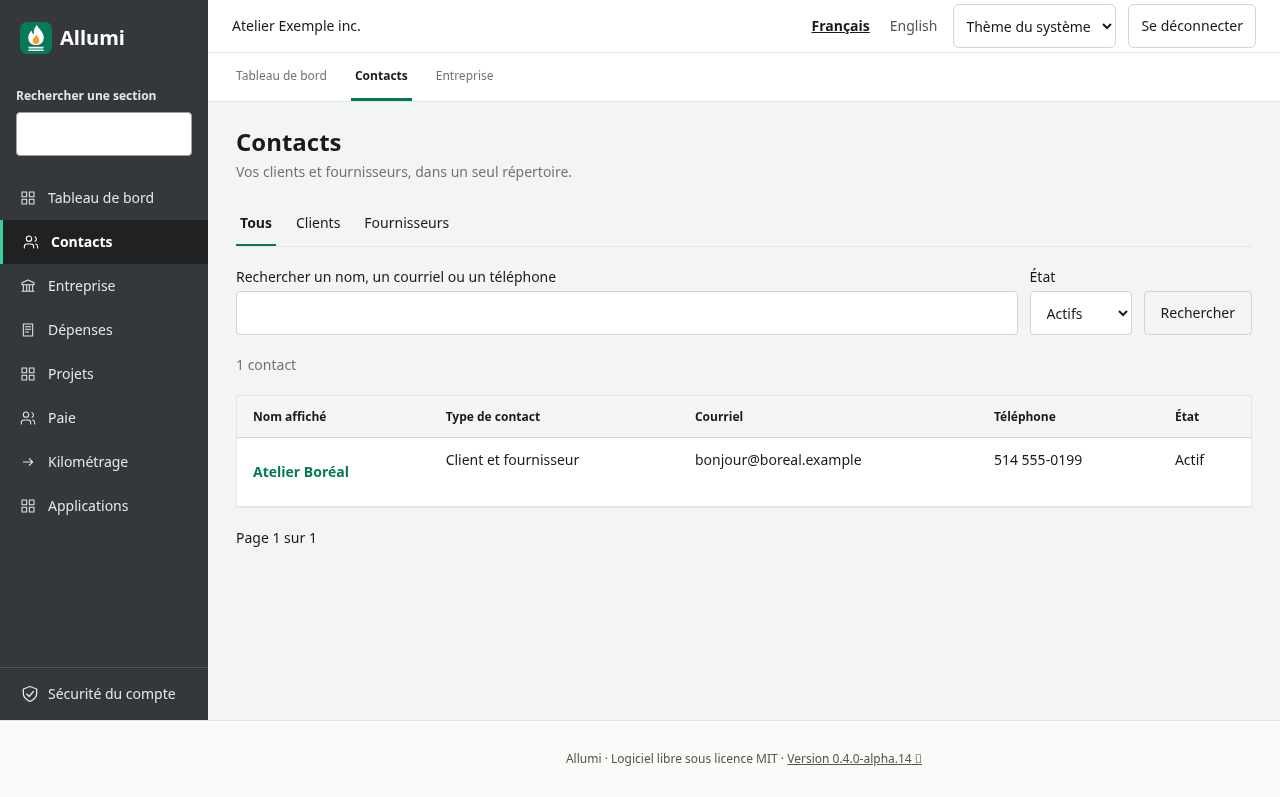
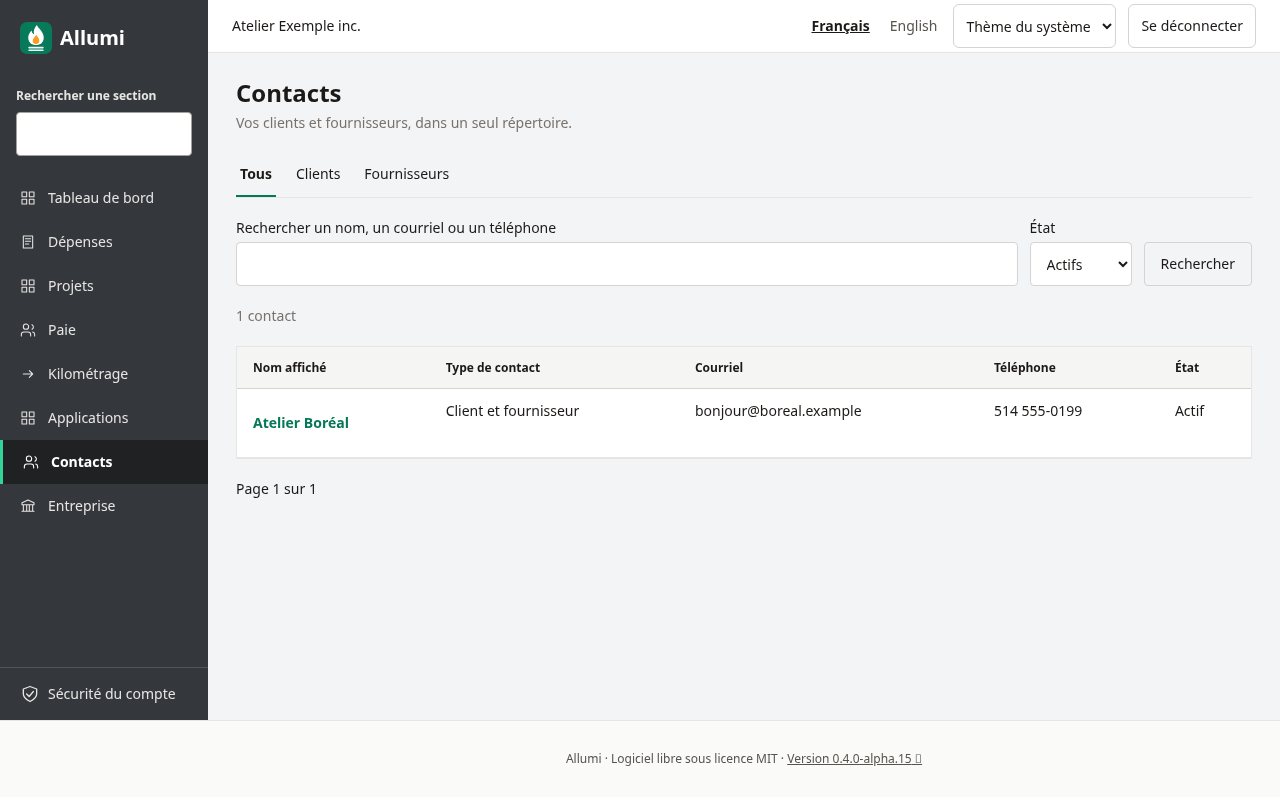
feat(navigation): separate activity sidebar from contextual tabs

diff --git a/src/app/c/[companyId]/nav.tsx b/src/app/c/[companyId]/nav.tsx
@@ -1,6 +1,7 @@
 "use client";
 
 import Link from "next/link";
+import { matchesNavigationPath } from "./navigation-groups";
 import { usePathname } from "next/navigation";
 import { useId, useRef, useState } from "react";
 import { useTranslations } from "next-intl";
@@ -9,14 +10,17 @@ import { Icon, type IconName } from "@/app/_components/icon";
 
 export type NavLink = { href: string; label: string; shortLabel?: string; icon: IconName };
 
-export function CompanyNav({ links, label, tabs = false }: { links: NavLink[]; label: string; tabs?: boolean }) {
+export type NavGroup = { href: string; links: NavLink[] };
+
+export function CompanyNav({ links, desktopLinks = links, groups = [], label, tabs = false }: { links: NavLink[]; desktopLinks?: NavLink[]; groups?: NavGroup[]; label: string; tabs?: boolean }) {
   const pathname = usePathname();
   const [open, setOpen] = useState(false);
   const [query, setQuery] = useState("");
   const menuId = useId();
   const toggle = useRef<HTMLButtonElement>(null);
   const t = useTranslations("nav");
-  const current = (link: NavLink) => link === links[0] ? pathname === link.href : pathname === link.href || pathname.startsWith(`${link.href}/`);
+  const activeGroup = groups.find(group => matchesNavigationPath(pathname, group.href) || group.links.some(link => matchesNavigationPath(pathname, link.href)));
+  const current = (link: NavLink) => link.href === activeGroup?.href || (link === links[0] ? pathname === link.href : matchesNavigationPath(pathname, link.href));
   const close = () => { setOpen(false); setQuery(""); toggle.current?.focus(); };
   const normalize = (value: string) => value.normalize("NFD").replace(/[\u0300-\u036f]/g, "").toLocaleLowerCase();
   const words = normalize(query).trim().split(/\s+/).filter(Boolean);
@@ -33,9 +37,12 @@ export function CompanyNav({ links, label, tabs = false }: { links: NavLink[]; l
     className={`flex min-h-11 min-w-0 items-center gap-3 ${FOCUS} ${mode === "mobile" ? "min-h-16 flex-col justify-center gap-1 px-1 py-2 text-center text-[11px]" : "px-5 py-3 text-sm"} ${current(link) ? mode === "desktop" ? "border-l-3 border-brand-500 bg-black/40 font-semibold text-white" : "bg-brand-50 font-semibold text-brand-800 dark:bg-brand-800 dark:text-white" : mode === "desktop" ? "text-stone-200 hover:bg-black/20" : "text-stone-700 hover:bg-stone-100 dark:text-stone-200 dark:hover:bg-stone-800"}`}>
     <Icon name={link.icon} className="h-4 w-4 shrink-0" /><span>{mode === "mobile" ? link.shortLabel ?? link.label : link.label}</span>
   </Link>;
-  if (tabs) return <nav aria-label={label} className="hidden gap-5 overflow-x-auto border-b border-stone-200 bg-white px-6 dark:border-stone-800 dark:bg-stone-900 lg:flex">{links.map((link) => <Link key={link.href} href={link.href} aria-current={current(link) ? "page" : undefined} className={`flex min-h-12 shrink-0 items-center border-b-3 px-1 text-xs ${FOCUS} ${current(link) ? "border-brand-700 font-semibold" : "border-transparent text-stone-500 dark:text-stone-400"}`}>{link.label}</Link>)}</nav>;
+  if (tabs) {
+    if (!activeGroup?.links.length) return null;
+    return <nav aria-label={label} className="hidden gap-5 overflow-x-auto border-b border-stone-200 bg-white px-6 dark:border-stone-800 dark:bg-stone-900 lg:flex">{activeGroup.links.map(link => <Link key={link.href} href={link.href} aria-current={matchesNavigationPath(pathname, link.href) ? "page" : undefined} className={`flex min-h-12 shrink-0 items-center border-b-3 px-1 text-sm ${FOCUS} ${matchesNavigationPath(pathname, link.href) ? "border-brand-700 font-semibold" : "border-transparent text-stone-500 dark:text-stone-400"}`}>{link.label}</Link>)}</nav>;
+  }
   return <nav aria-label={label} onKeyDown={(event) => { if (event.key === "Escape" && open) { event.preventDefault(); close(); } }} className="mobile-navigation fixed inset-x-0 bottom-0 z-30 border-t border-stone-200 bg-white dark:border-stone-800 dark:bg-stone-900 lg:static lg:min-h-0 lg:flex-1 lg:overflow-y-auto lg:border-0 lg:bg-transparent lg:dark:bg-transparent">
-    <div className="hidden lg:block">{search("desktop")}{results.map((link) => item(link, "desktop"))}</div>
+    <div className="hidden lg:block">{search("desktop")}{(words.length > 0 ? results : desktopLinks).map((link) => item(link, "desktop"))}</div>
     <div className="lg:hidden">
       {open && <div id={menuId} className="max-h-[65dvh] overflow-y-auto border-b border-stone-200 dark:border-stone-800"><div className="flex items-center justify-between px-5"><h2 className="font-semibold text-stone-900 dark:text-white">{t("menu")}</h2><button type="button" onClick={close} className={`min-h-11 px-3 text-sm text-stone-700 dark:text-stone-200 ${FOCUS}`}>{t("closeMenu")}</button></div>{search("panel")}{(words.length > 0 ? results : links.slice(3)).map((link) => item(link, "panel"))}</div>}
       <div className="grid grid-cols-4">{links.slice(0, 3).map((link) => item(link, "mobile"))}<button ref={toggle} type="button" aria-expanded={open} aria-controls={open ? menuId : undefined} onClick={() => { setQuery(""); setOpen(!open); }} className={`flex min-h-16 flex-col items-center justify-center gap-1 px-1 text-[11px] ${FOCUS} ${links.slice(3).some(current) ? "bg-brand-50 font-semibold text-brand-800 dark:bg-brand-800 dark:text-white" : "text-stone-700 dark:text-stone-200"}`}><span aria-hidden="true" className="text-lg">☰</span>{t("menu")}</button></div>

diff --git a/tests/e2e/journey.spec.ts b/tests/e2e/journey.spec.ts
@@ -227,6 +227,17 @@ test("setup, sign-in, two-factor enrollment and sign-in with a code", async ({ p
   await expect(page.getByRole("heading", { name: "À venir — non disponible" })).toBeVisible();
   await expectNoPageOverflow(page);
   await captureReference(page, "espace-ventes");
+  if ((page.viewportSize()?.width ?? 1280) >= 1024) {
+    const sidebar = page.getByRole("navigation", { name: "Navigation de l'entreprise", exact: true });
+    const tabs = page.getByRole("navigation", { name: "Sections comptables", exact: true });
+    await expect(sidebar.getByRole("link", { name: "Brouillons de factures", exact: true })).toHaveCount(0);
+    await expect(sidebar.getByRole("link", { name: "Ventes", exact: true })).toHaveAttribute("aria-current", "page");
+    await tabs.getByRole("link", { name: "Brouillons de factures", exact: true }).click();
+    await expect(tabs.getByRole("link", { name: "Brouillons de factures", exact: true })).toHaveAttribute("aria-current", "page");
+    await expect(sidebar.getByRole("link", { name: "Ventes", exact: true })).toHaveAttribute("aria-current", "page");
+    await captureReference(page, "navigation-contextuelle");
+    await sidebar.getByRole("link", { name: "Ventes", exact: true }).click();
+  } else await captureReference(page, "navigation-contextuelle");
   if ((page.viewportSize()?.width ?? 1280) < 1024) {
     const nav = page.getByRole("navigation", { name: "Navigation de l'entreprise", exact: true });
     await nav.getByRole("button", { name: "Menu", exact: true }).click();
@@ -276,7 +287,10 @@ const reportDays = (): [string, string] => {
 const openSection = async (page: Page, name: string) => {
   const nav = page.getByRole("navigation", { name: "Navigation de l'entreprise", exact: true });
   const link = nav.getByRole("link", { name, exact: true });
-  if (!(await link.isVisible())) await nav.getByRole("button", { name: "Menu", exact: true }).click();
+  if (!(await link.isVisible())) {
+    if ((page.viewportSize()?.width ?? 1280) < 1024) await nav.getByRole("button", { name: "Menu", exact: true }).click();
+    else await nav.getByRole("searchbox", { name: "Rechercher une section", exact: true }).fill(name);
+  }
   await link.click();
 };
 
@@ -1983,7 +1997,7 @@ async function membersJourney(page: Page, browser: Browser) {
   const member = page.getByRole("article").filter({ has: page.getByRole("heading", { name: "Collègue Exemple" }) });
   await guest.goto(`${company}/espace/banque`);
   await expect(guest.getByRole("link", { name: "Intégrations", exact: true })).toHaveCount(0);
-  await expect(guest.getByRole("link", { name: "Transactions bancaires", exact: true })).toBeVisible();
+  await expect(guest.locator(".workspace-content").getByRole("link", { name: "Transactions bancaires", exact: true })).toBeVisible();
   await member.getByText("Permissions par module", { exact: true }).click();
   for (const moduleKey of ["catalog", "sales", "accounting", "taxes", "audit"]) await member.locator(`select[name="${moduleKey}"]`).selectOption("none");
   const saveAccess = async () => {
@@ -2021,7 +2035,7 @@ async function membersJourney(page: Page, browser: Browser) {
   for (const moduleKey of ["catalog", "sales", "accounting", "taxes", "audit"]) await member.locator(`select[name="${moduleKey}"]`).selectOption("default");
   await saveAccess();
   await guest.goto(`${company}/espace/rapports`);
-  await expect(guest.getByRole("link", { name: "Âge des comptes clients", exact: true })).toBeVisible();
+  await expect(guest.locator(".workspace-content").getByRole("link", { name: "Âge des comptes clients", exact: true })).toBeVisible();
   await member.getByLabel("Rôle", { exact: true }).selectOption("READ_ONLY");
   await member.getByRole("button", { name: "Enregistrer les accès" }).click();
   await expect(member.getByRole("status")).toBeVisible();

diff --git a/src/app/c/[companyId]/layout.tsx b/src/app/c/[companyId]/layout.tsx
@@ -1,3 +1,4 @@
+import { NAVIGATION_GROUPS } from "./navigation-groups";
 import { canAccessArea, canAccessRoute } from "./navigation-access";
 import { AREAS, type Area } from "./sections";
 import Link from "next/link";
@@ -31,6 +32,14 @@ export default async function CompanyLayout({ children, params }: { children: Re
   ];
   const visibleLinks = links.filter(link => canAccessRoute(company, link.href === base ? "" : link.href.slice(base.length + 1)));
   const areaLinks: NavLink[] = (Object.keys(AREAS) as Area[]).filter(area => canAccessArea(company, area)).map((area) => ({ href: area === "taxes" ? `${base}/taxes` : `${base}/espace/${area}`, label: ta(`${area}.title`), icon: AREAS[area].icon }));
+  const groups = Object.entries(NAVIGATION_GROUPS).filter(([area]) => canAccessArea(company, area as Area)).map(([area, routes]) => ({
+    href: `${base}/espace/${area}`,
+    links: routes.filter(route => canAccessRoute(company, route)).map(route => visibleLinks.find(link => link.href === `${base}/${route}`) ?? { href: `${base}/${route}`, label: ta(`links.${route}`), icon: AREAS[area as Area].icon }),
+  }));
+  const groupedHrefs = new Set(groups.flatMap(group => group.links.map(link => link.href)));
+  const desktopLinks = [visibleLinks[0]!, ...areaLinks, ...visibleLinks.slice(1).filter(link => !groupedHrefs.has(link.href))];
+  const allLinks = [...visibleLinks.slice(0, 3), ...areaLinks, ...visibleLinks.slice(3)];
+  for (const group of groups) for (const link of group.links) if (!allLinks.some(existing => existing.href === link.href)) allLinks.push(link);
   return (
     <div className="company-workspace grid min-w-0 lg:grid-cols-[208px_minmax(0,1fr)]">
       <aside className="workspace-sidebar contents min-w-0 text-white lg:bg-[#34373b] lg:sticky lg:top-0 lg:flex lg:h-dvh lg:flex-col lg:self-start">
@@ -40,12 +49,12 @@ export default async function CompanyLayout({ children, params }: { children: Re
           </Link>
           {can(company, "entry.post") ? <Link href={`${base}/journal/nouvelle`} className="inline-flex min-h-11 items-center justify-center gap-2 rounded-full border border-stone-400 px-4 text-sm font-semibold hover:bg-white/10 focus-visible:outline-2 focus-visible:outline-offset-2 focus-visible:outline-white lg:mt-5 lg:w-full"><Icon name="plus" />{td("create")}</Link> : null}
         </div>
-        <CompanyNav links={[...visibleLinks.slice(0, 3), ...areaLinks, ...visibleLinks.slice(3)]} label={t("label")} />
+        <CompanyNav links={allLinks} desktopLinks={desktopLinks} groups={groups} label={t("label")} />
         <Link href="/compte/securite" className="hidden min-h-11 items-center gap-2 border-t border-white/15 px-5 py-4 text-sm text-stone-200 hover:bg-black/20 focus-visible:outline-2 focus-visible:outline-white lg:mt-auto lg:flex"><Icon name="audit" />{td("security")}</Link>
       </aside>
       <div className="min-w-0">
         <Header companyName={company.name} />
-        <CompanyNav links={visibleLinks} label={t("sections")} tabs />
+        <CompanyNav links={allLinks} groups={groups} label={t("sections")} tabs />
         <div className="workspace-content min-w-0 px-4 py-6 sm:px-6 lg:px-7">{children}</div>
       </div>
     </div>

diff --git a/tests/unit/navigation-access.test.ts b/tests/unit/navigation-access.test.ts
@@ -1,3 +1,4 @@
+import { NAVIGATION_GROUPS, matchesNavigationPath } from "@/app/c/[companyId]/navigation-groups";
 import { describe, expect, it } from "vitest";
 import { canAccessArea, canAccessRoute, ROUTE_ACCESS, visibleAreaRoutes } from "@/app/c/[companyId]/navigation-access";
 import { AREAS } from "@/app/c/[companyId]/sections";
@@ -34,5 +35,20 @@ describe("company navigation authorization", () => {
     for (const area of Object.values(AREAS)) for (const route of area.links) expect(Object.hasOwn(ROUTE_ACCESS, route), route).toBe(true);
     expect(canAccessRoute({ role: "OWNER" }, "future-unregistered-page")).toBe(false);
     expect(canAccessRoute({ role: "OWNER" }, "constructor")).toBe(false);
+  });
+});
+
+
+describe("contextual navigation", () => {
+  it("assigns each tool to only one parent and an explicit permission policy", () => {
+    const routes = Object.values(NAVIGATION_GROUPS).flat();
+    expect(new Set(routes).size).toBe(routes.length);
+    for (const route of routes) expect(Object.hasOwn(ROUTE_ACCESS, route)).toBe(true);
+  });
+  it("retains the active tab on child pages without matching a route prefix", () => {
+    expect(matchesNavigationPath("/c/acme/factures/validees/123", "/c/acme/factures")).toBe(true);
+    expect(matchesNavigationPath("/c/acme/factures", "/c/acme/factures")).toBe(true);
+    expect(matchesNavigationPath("/c/acme/factures-autres", "/c/acme/factures")).toBe(false);
+    expect(matchesNavigationPath("/c/other/factures", "/c/acme/factures")).toBe(false);
   });
 });

diff --git a/src/app/c/[companyId]/navigation-groups.ts b/src/app/c/[companyId]/navigation-groups.ts
@@ -1,0 +1,11 @@
+/** One canonical home per tool keeps global navigation distinct from contextual tabs. */
+export const NAVIGATION_GROUPS = {
+  ventes: ["factures", "avoirs", "encaissements", "contacts", "catalogue"],
+  banque: ["transactions", "rapprochement", "integrations"],
+  comptabilite: ["comptes", "journal", "balance", "exercices"],
+  rapports: ["resultats", "bilan", "grand-livre", "age-clients"],
+} as const;
+
+export function matchesNavigationPath(pathname: string, href: string): boolean {
+  return pathname === href || pathname.startsWith(`${href}/`);
+}

diff --git a/docs/Interface-et-navigation.md b/docs/Interface-et-navigation.md
@@ -1,6 +1,6 @@
 # Interface et navigation
 
-Allumi propose un espace de travail comptable bilingue. Sur ordinateur, une barre latérale sombre occupe toute la hauteur, avec une action Créer et les modules comptables. Une barre supérieure compacte affiche l’entreprise et les contrôles de session; des onglets soulignent la section active. Sur téléphone et tablette, une barre de navigation fixe au bas de l’écran donne accès aux sections, tandis que les résumés et les écritures s’empilent. La section active est indiquée visuellement et aux lecteurs d’écran. Les liens conduisent uniquement à des fonctions disponibles.
+Allumi propose un espace de travail comptable bilingue. Sur ordinateur, une barre latérale sombre occupe toute la hauteur, avec une action Créer et les modules comptables. Une barre supérieure compacte affiche l’entreprise et les contrôles de session; des onglets contextuels montrent uniquement les outils du domaine ouvert. Le tableau de bord n’affiche pas de deuxième menu global. Sur téléphone et tablette, une barre de navigation fixe au bas de l’écran donne accès aux sections, tandis que les résumés et les écritures s’empilent. La section active est indiquée visuellement et aux lecteurs d’écran. Les liens conduisent uniquement à des fonctions disponibles.
 
 ## Tableau de bord
 
@@ -48,3 +48,15 @@ Seules les sections autorisées pour ton compte sont proposées. Cette recherche
 ![Recherche du menu sur ordinateur](images/navigation-recherche-desktop.png)
 
 ![Recherche du menu sur téléphone](images/navigation-recherche-mobile.png)
+
+## Navigation par domaine
+
+Sur ordinateur, le menu de gauche contient les domaines d’activité. **Ventes** ouvre les onglets Factures, Avoirs, Encaissements, Contacts et Catalogue; **Banque et transactions** regroupe les transactions, le rapprochement et les intégrations autorisées; **Comptabilité** regroupe les comptes, le journal, la balance et les exercices; **Rapports** regroupe les états financiers, le grand livre et l’âge clients. Le domaine reste sélectionné pendant la consultation ou la modification d’une pièce.
+
+Les pages de ces domaines ne sont plus répétées dans le menu latéral. La recherche retrouve toujours directement chaque outil autorisé. Un outil dont le domaine est interdit reste accessible directement s’il dispose de son propre droit de lecture, par exemple Contacts. Les réglages de l’entreprise restent à gauche. Les filtres et actions propres à une page restent dans son contenu.
+
+Sur téléphone, les raccourcis du bas et le panneau Menu donnent accès à ces mêmes outils sans ajouter une deuxième rangée d’onglets.
+
+![Navigation contextuelle sur ordinateur](images/navigation-contextuelle-desktop.png)
+
+![Navigation sur téléphone](images/navigation-contextuelle-mobile.png)

diff --git a/README.md b/README.md
@@ -21,7 +21,7 @@ Ou à la main, avec Docker Engine, Compose v2, Bash, OpenSSL et Git déjà insta
 ```bash
 git clone https://github.com/Installation-04/Allumi.git allumi
 cd allumi
-git checkout v0.4.0-alpha.15
+git checkout v0.4.0-alpha.16
 ./scripts/install-docker.sh
 ```
 
@@ -50,7 +50,7 @@ Le script installe Docker, configure le pare-feu, génère les secrets, démarre
 
 ## Windows, iPhone et Proxmox
 
-Le client Windows de la préversion v0.4.0-alpha.15 est distribué via les [Releases](https://github.com/Installation-04/Allumi/releases), avec leur version et leurs sommes de contrôle. Voir le [client Windows](docs/Client-Windows.md). Sur iPhone : **Safari → Partager → Sur l’écran d’accueil**, puis ouvrir Allumi depuis son icône ([guide iOS](docs/Application-mobile.md)). Une connexion au serveur est nécessaire.
+Le client Windows de la préversion v0.4.0-alpha.16 est distribué via les [Releases](https://github.com/Installation-04/Allumi/releases), avec leur version et leurs sommes de contrôle. Voir le [client Windows](docs/Client-Windows.md). Sur iPhone : **Safari → Partager → Sur l’écran d’accueil**, puis ouvrir Allumi depuis son icône ([guide iOS](docs/Application-mobile.md)). Une connexion au serveur est nécessaire.
 
 Pour tester sur Proxmox, utiliser une **VM Ubuntu dédiée** et des données fictives : [guide Proxmox](docs/Proxmox.md). La page **Versions** distingue les mises à jour du serveur et du client.
 
@@ -238,3 +238,11 @@ Retrouve une section autorisée depuis le menu, sur ordinateur ou téléphone, s
 ![Recherche dans le menu](docs/images/navigation-recherche-desktop.png)
 
 ![Recherche mobile](docs/images/navigation-recherche-mobile.png)
+
+### Navigation par domaine
+
+Les domaines restent à gauche; les outils du domaine ouvert apparaissent dans des onglets contextuels, sans répéter le menu global. [Guide](docs/Interface-et-navigation.md#navigation-par-domaine).
+
+![Navigation contextuelle](docs/images/navigation-contextuelle-desktop.png)
+
+![Navigation mobile](docs/images/navigation-contextuelle-mobile.png)

diff --git a/docs/Mise-a-jour.md b/docs/Mise-a-jour.md
@@ -7,14 +7,14 @@ sudo ./scripts/update.sh
 ```
 Le script : sauvegarde, récupère la nouvelle version (`git pull --ff-only` sur une branche), complète ton `.env` des variables ajoutées depuis (sans toucher aux existantes), reconstruit les images, applique les migrations (service `migrate`) et vérifie le healthcheck. Lis le `CHANGELOG.md` avant, surtout pour les versions majeures.
 
-Options : `--no-backup` (déconseillé) et une version, par exemple `sudo ./scripts/update.sh v0.4.0-alpha.15` (voir ci-dessous).
+Options : `--no-backup` (déconseillé) et une version, par exemple `sudo ./scripts/update.sh v0.4.0-alpha.16` (voir ci-dessous).
 
 ## Épingler une version
 Les numéros et le processus de publication sont décrits dans [[Versions-et-releases]].
 
 Pour la production, utilise une version étiquetée plutôt que `main` :
 ```bash
-sudo ./scripts/update.sh v0.4.0-alpha.15
+sudo ./scripts/update.sh v0.4.0-alpha.16
 ```
 Le script sauvegarde, se place sur l'étiquette, **télécharge les images publiées de cette version** (aucune compilation; repli automatique sur la construction si elles sont introuvables, ou avec `--build`) et vérifie le healthcheck. Sur une version épinglée (HEAD détachée), lancer `update.sh` sans version ne tire rien : il redémarre seulement avec les images de la version courante. Voir [[Installation-Docker]], « Images déjà construites ». La première mise à jour depuis une version antérieure à ce changement construit encore sur place : c’est l’ancien script qui s’exécute.
 

diff --git a/CHANGELOG.md b/CHANGELOG.md
@@ -4,6 +4,8 @@ Format basé sur [Keep a Changelog](https://keepachangelog.com/fr/1.1.0/); versi
 
 ## [Non publié]
 
+- Navigation par domaine : suppression du menu global dupliqué en haut, onglets contextuels Ventes/Banque/Comptabilité/Rapports et sélection du domaine sur les pages de détail. Recherche et accès mobiles conservés selon les permissions.
+
 ## [0.4.0-alpha.15] - 2026-10-26
 
 - Recherche des sections dans le menu ordinateur et mobile : accents et casse ignorés, compteur et état vide, effacement, français/anglais et respect des permissions.

diff --git a/docs/References-visuelles.md b/docs/References-visuelles.md
@@ -275,3 +275,11 @@ Recherche sans accents d’une section autorisée, avec un compte aux permission
 ![Recherche sur ordinateur](images/navigation-recherche-desktop.png)
 
 ![Recherche sur mobile](images/navigation-recherche-mobile.png)
+
+## Navigation par domaine
+
+Le menu latéral affiche les domaines; les onglets montrent seulement les outils du domaine ouvert.
+
+![Onglets Ventes sans menu global répété](images/navigation-contextuelle-desktop.png)
+
+![Accès mobile aux domaines](images/navigation-contextuelle-mobile.png)

diff --git a/docs/Proxmox.md b/docs/Proxmox.md
@@ -18,7 +18,7 @@ sudo apt install -y git
 sudo git clone https://github.com/Installation-04/Allumi.git /opt/allumi
 cd /opt/allumi
 # Préversion de test; utiliser uniquement des données fictives.
-sudo git checkout v0.4.0-alpha.15
+sudo git checkout v0.4.0-alpha.16
 sudo ./scripts/install.sh --interactive
 ```
 
